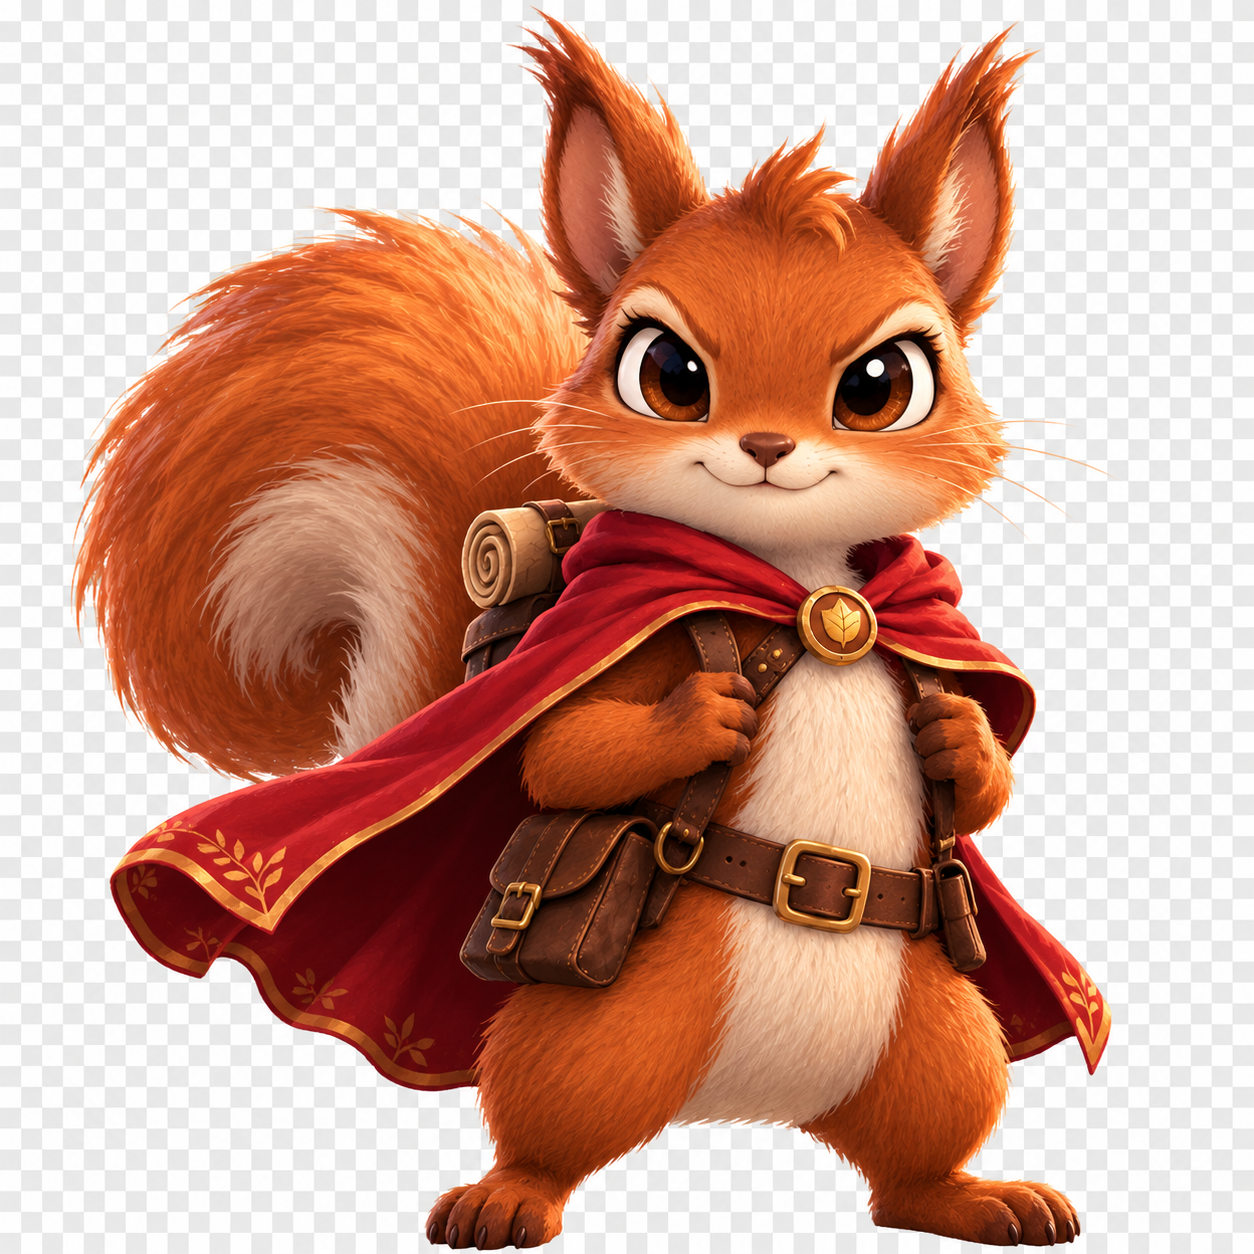
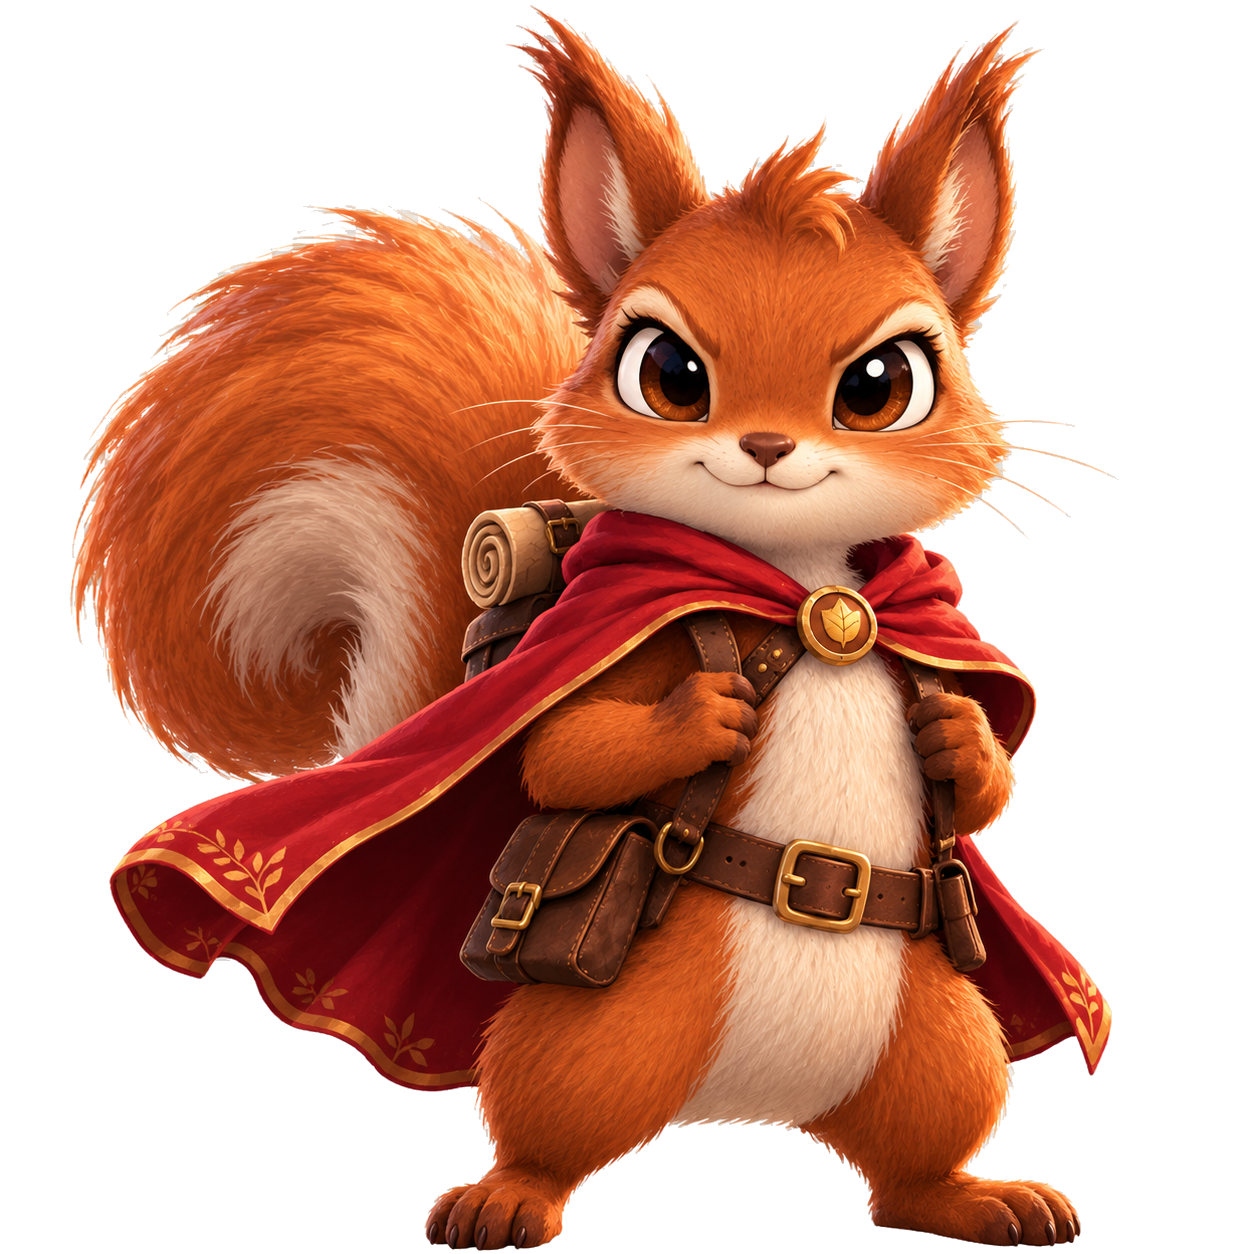
Chore/update image (#26)

diff --git a/README.md b/README.md
@@ -1,7 +1,7 @@
 # 🐿 Squirrel
 
 <p align="center">
-  <img src="assets/squirrel.png" alt="Squirrel package brand" width="220">
+  <img src="assets/squirrel.png" alt="Squirrel package brand" width="320">
 </p>
 
 Reusable infrastructure building blocks for .NET microservices.
